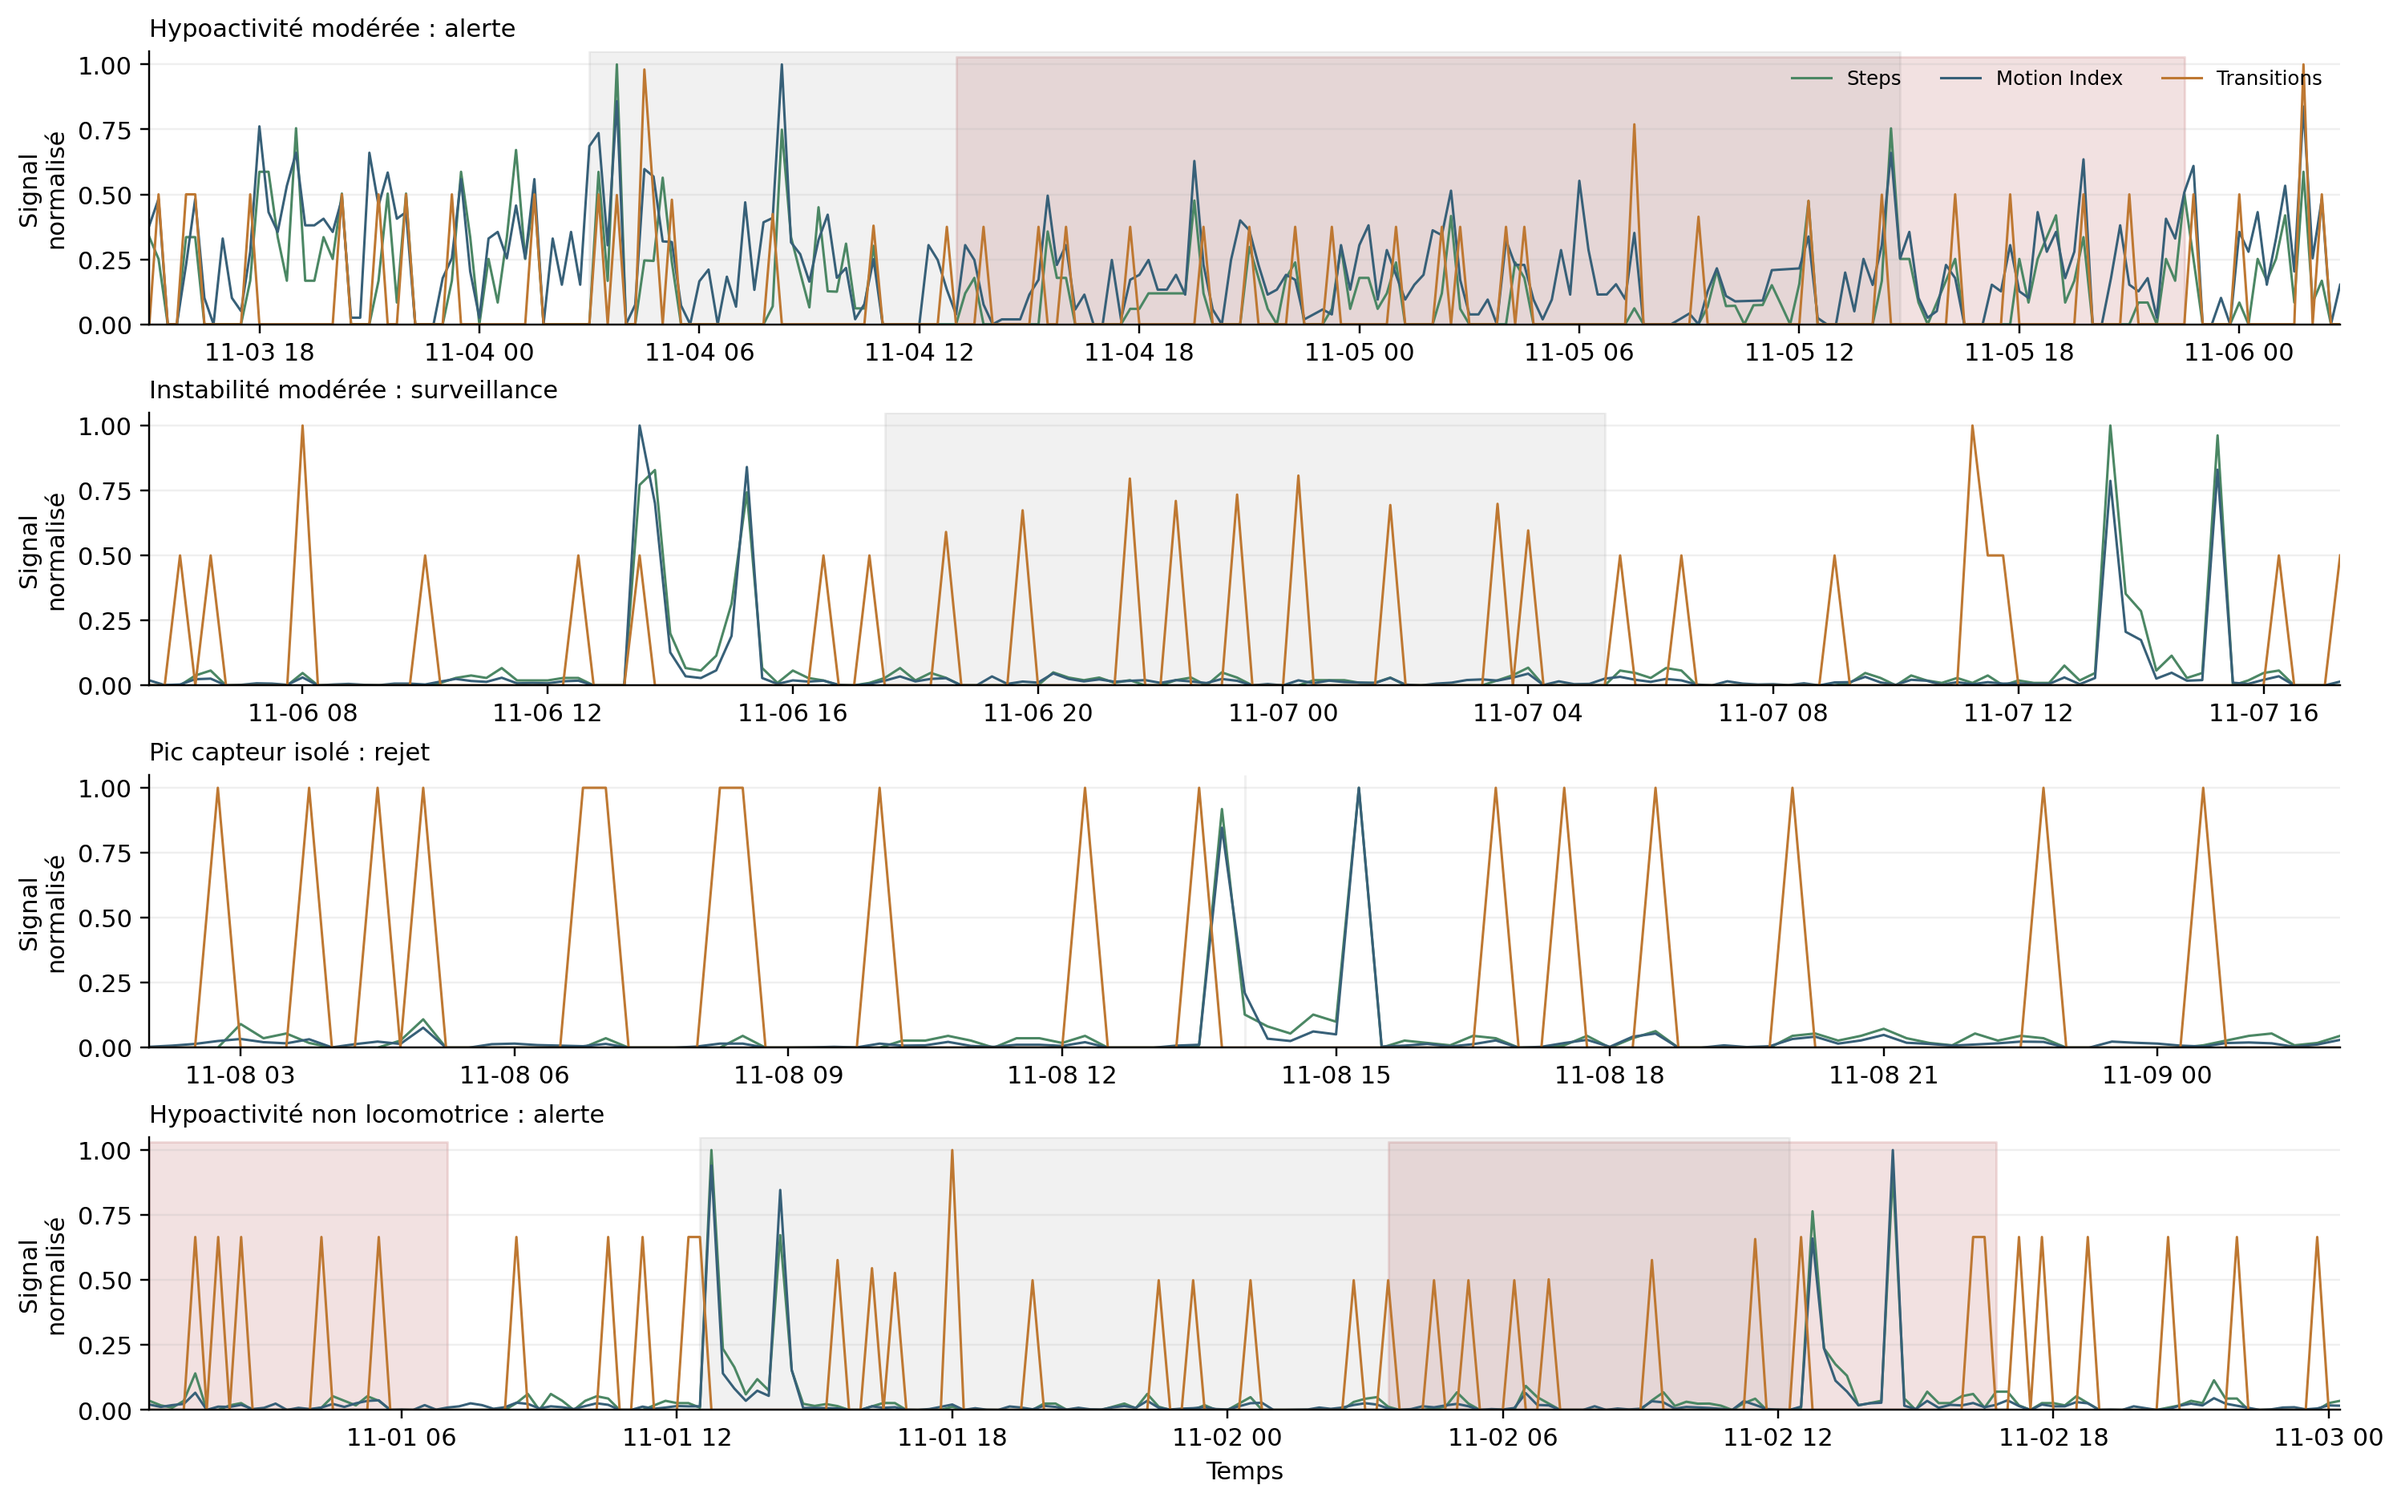
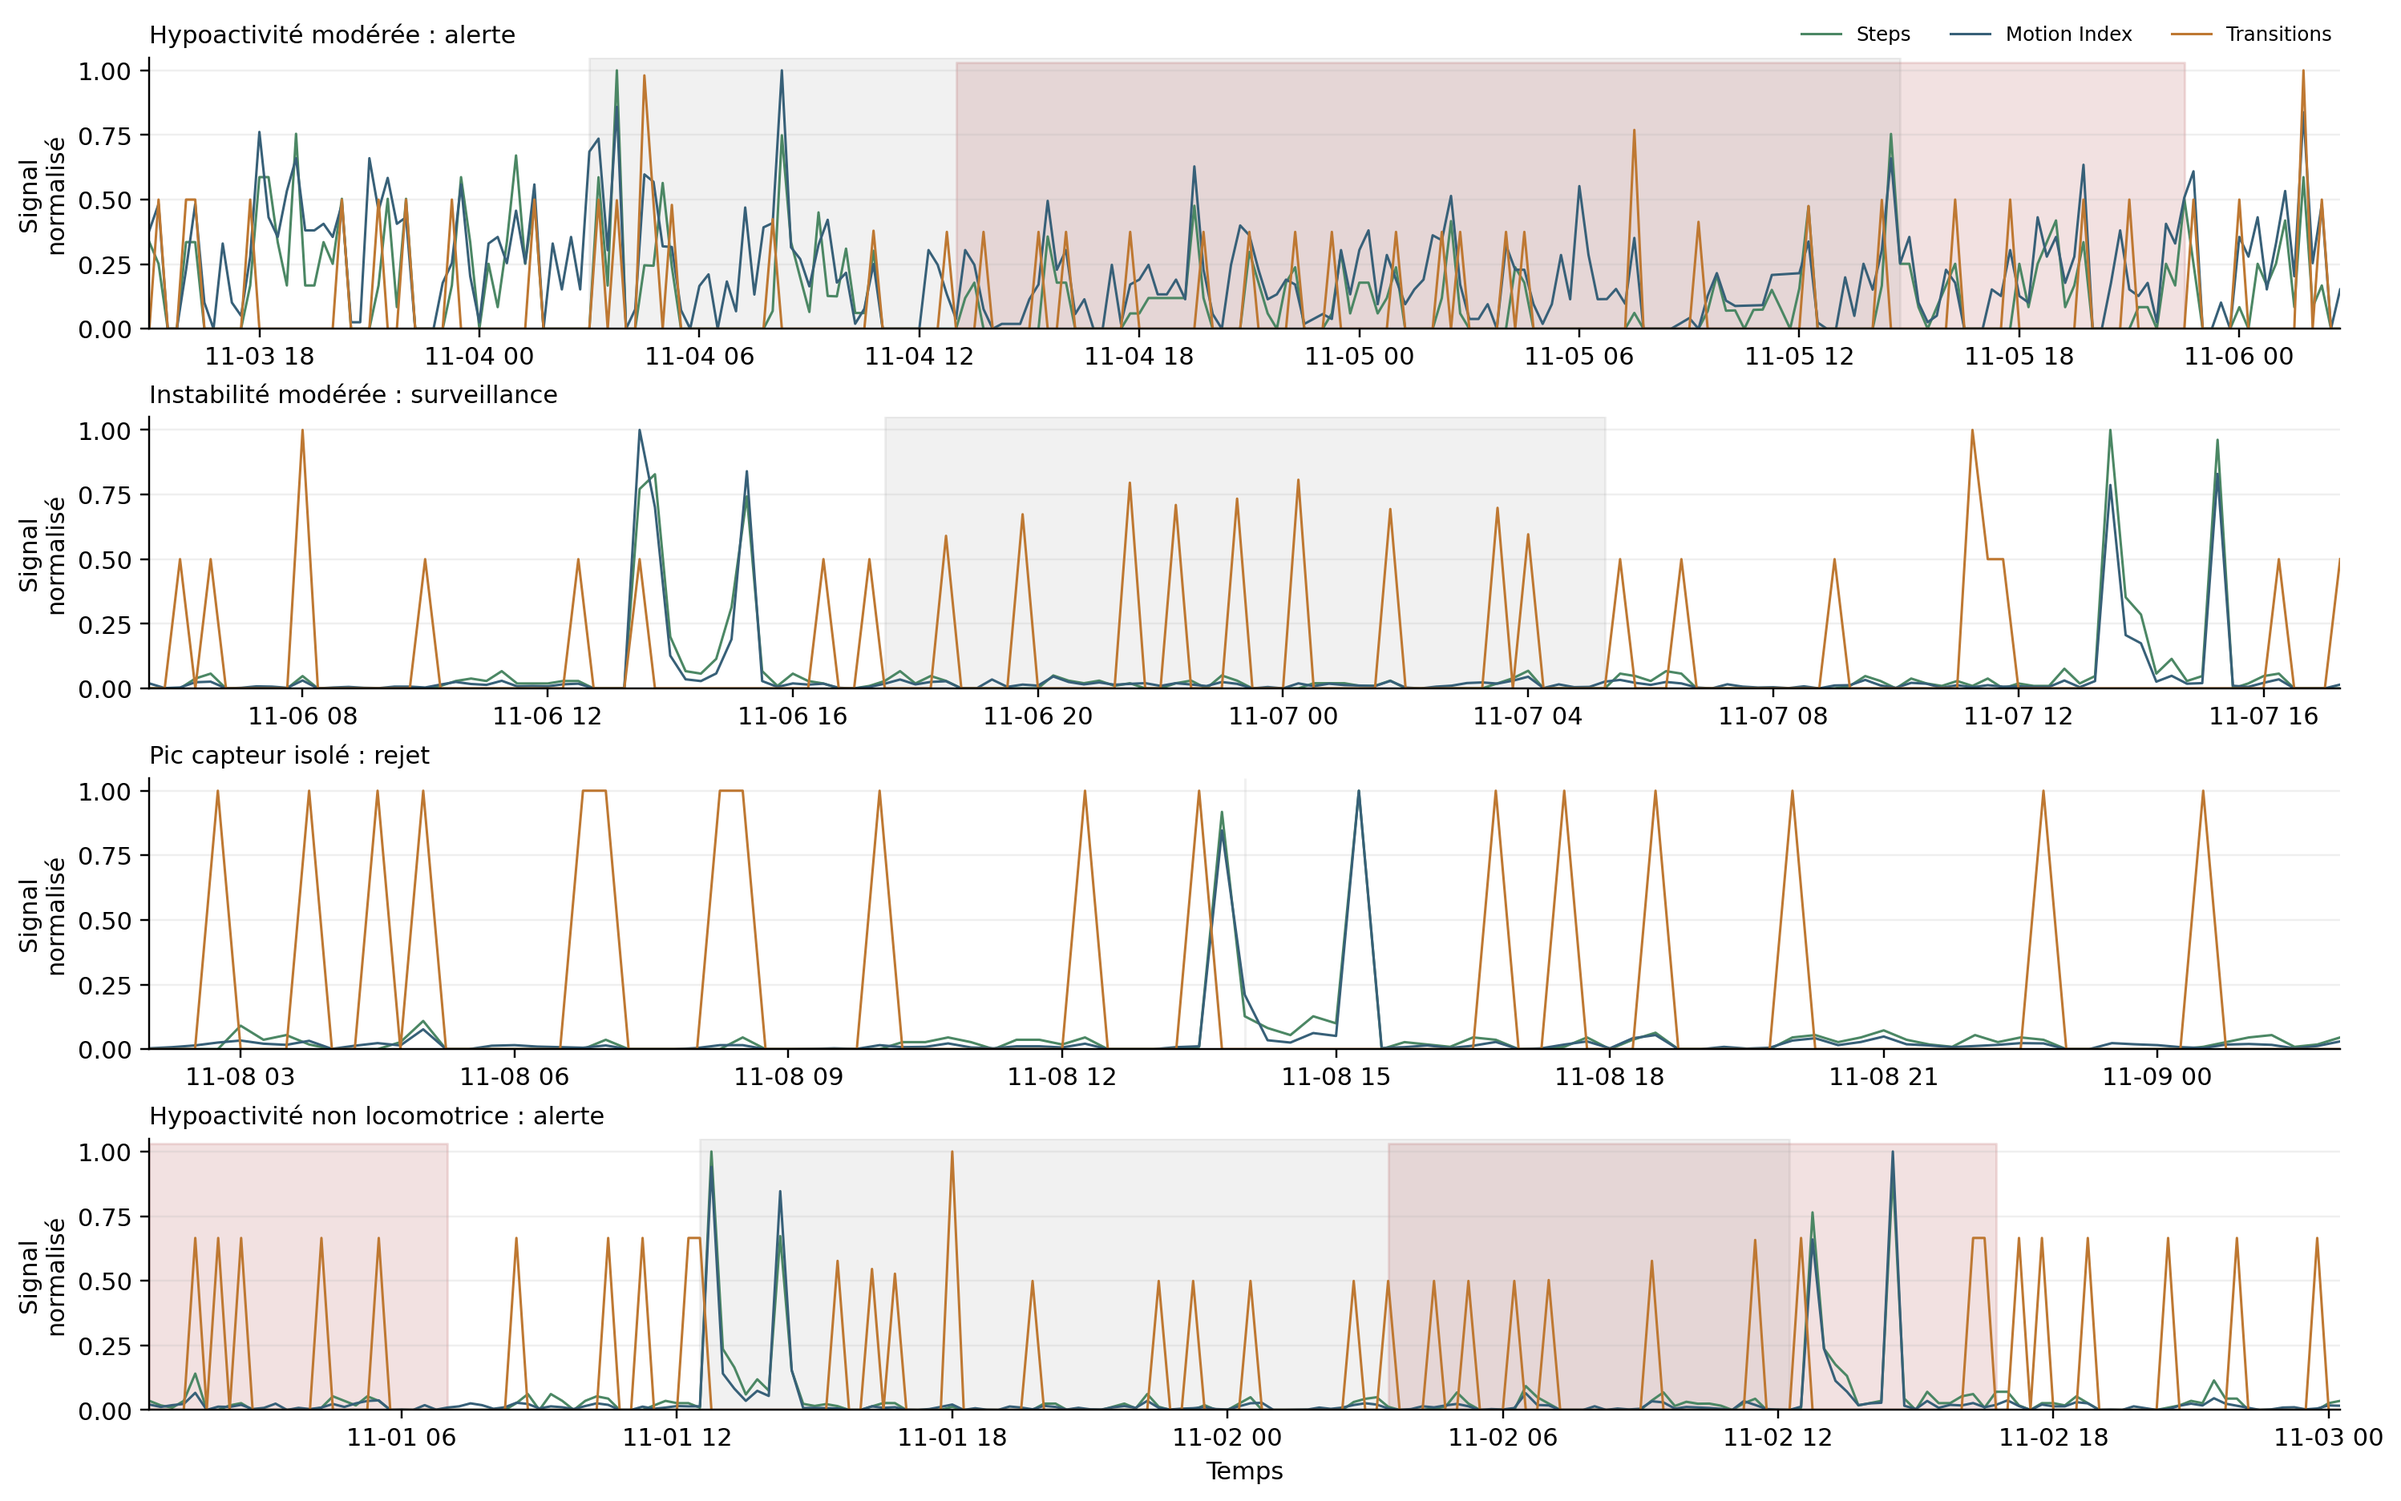
memoirev3: legende de la figure 6.2 placee au-dessus du premier panneau
La legende (Steps / Motion Index / Transitions) etait tracee a l'interieur
du premier panneau et recouvrait les courbes ainsi que les zones ombrees
(fenetre injectee et episode de verification). Elle est desormais posee
au-dessus de la zone de trace, alignee sur la ligne du titre : titre a
gauche, legende a droite. Aucune donnee tracee ne change.

diff --git a/scripts/plot_manuscript_results.py b/scripts/plot_manuscript_results.py
@@ -186,7 +186,17 @@ def plot_manual_review() -> None:
         ax.set_ylim(0, 1.05)
         ax.set_ylabel("Signal\nnormalisé")
         ax.grid(axis="y", alpha=0.2)
-    axes[0].legend(frameon=False, ncol=3, fontsize=8, loc="upper right")
+    # Legende placee au-dessus du premier panneau plutot qu'a l'interieur :
+    # elle ne recouvre plus les courbes ni les zones ombrees, et s'aligne sur
+    # la ligne du titre (titre a gauche, legende a droite).
+    axes[0].legend(
+        frameon=False,
+        ncol=3,
+        fontsize=8,
+        loc="lower right",
+        bbox_to_anchor=(1.0, 1.02),
+        borderaxespad=0.0,
+    )
     axes[-1].set_xlabel("Temps")
     _save(fig, "manual_review")
 
